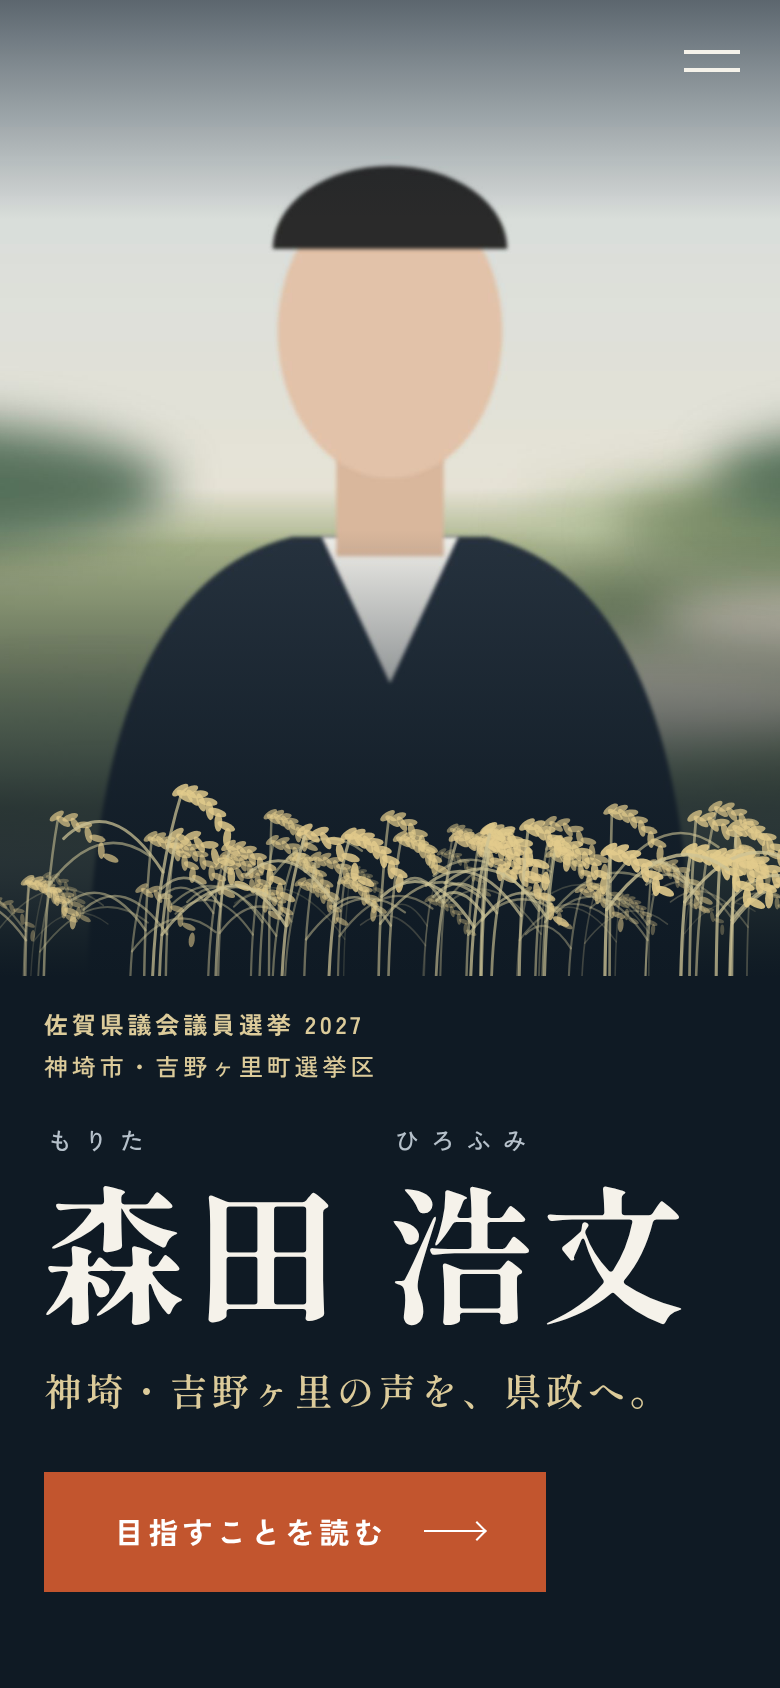
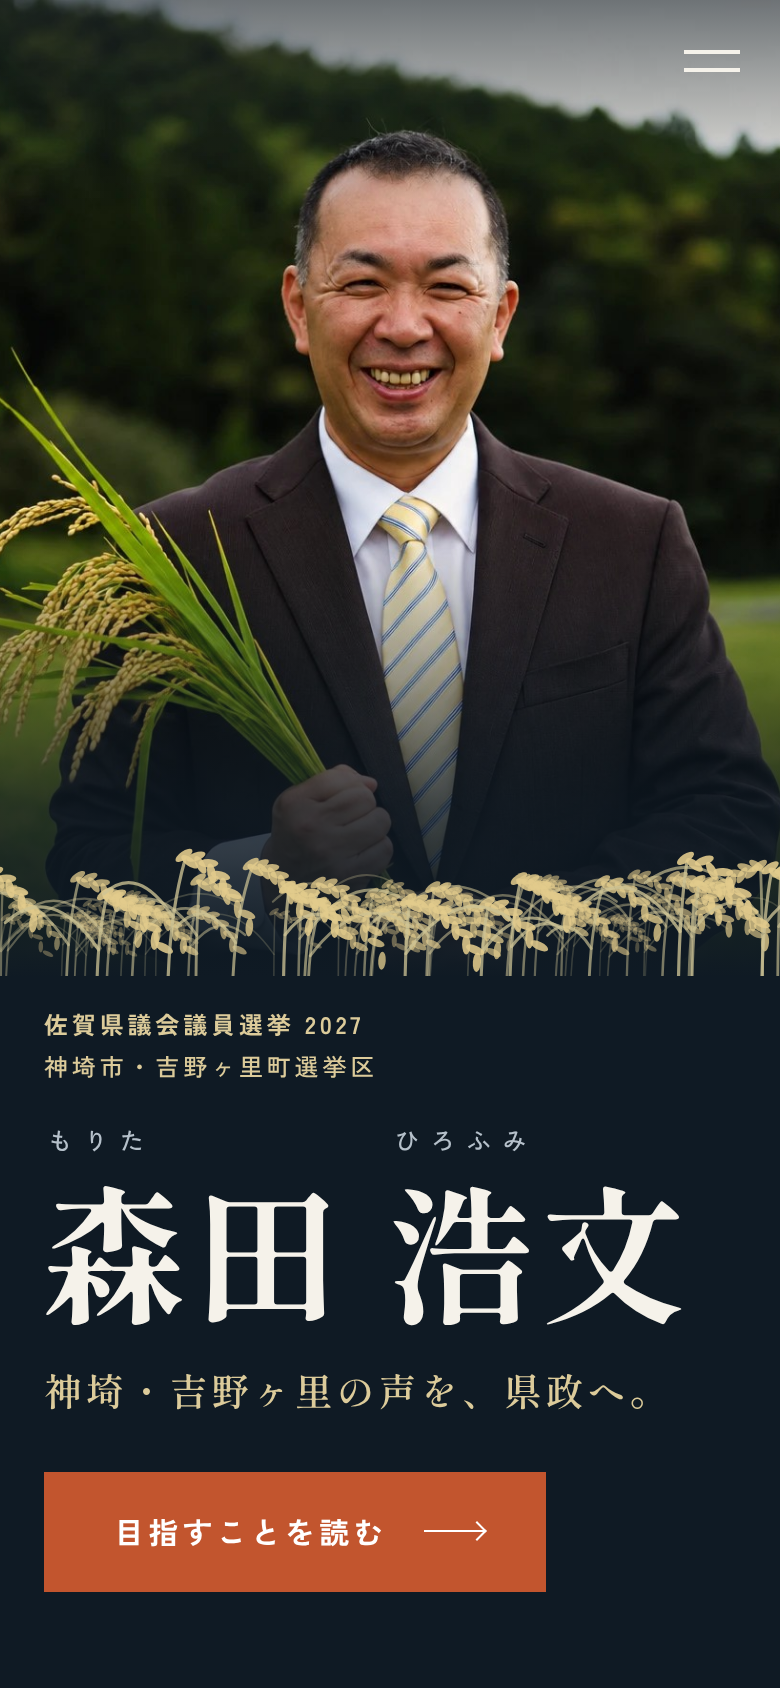
最初の画面に写真を設定（assets/img/hero.jpg）
- data/site.json の photo_url を設定
- 写真があるときは、稲穂のアニメーションを低くして顔や手元に重ならないよう調整
- 写真ありのスクリーンショットを実際の写真で撮り直し

Claude-Session: https://claude.ai/code/session_011pUcFcALCuBGnFo43mF5EL

diff --git a/assets/js/main.js b/assets/js/main.js
@@ -509,7 +509,8 @@
       for (var i = 0; i < count; i++) {
         var x = rnd(-20, W + 20), u = x / W, z = Math.random();
         // 背の高さ：PC は左（文字の下）を低く、右へ行くほど高く。スマホは面の下半分に
-        var prof = wide ? (0.1 + (hasPhoto ? 0.36 : 0.27) * smooth(0.3, 0.95, u)) : (hasPhoto ? 0.2 : 0.27 + 0.08 * Math.sin(u * 5));
+        // 写真があるときは、手元の稲穂や顔に重ならないよう低くする
+        var prof = wide ? (0.1 + (hasPhoto ? 0.1 : 0.27) * smooth(0.3, 0.95, u)) : (hasPhoto ? 0.13 : 0.27 + 0.08 * Math.sin(u * 5));
         stalks.push({
           x: x, z: z, h: H * prof * rnd(0.55, 1) * (0.62 + 0.38 * z), lean: rnd(-0.07, 0.07), ph: rnd(0, 6.28),
           grains: Math.round(rnd(8, 14)), ear: rnd(26, 46) * (0.6 + 0.5 * z) * (wide ? 1.15 : 0.9), side: Math.random() < 0.5 ? -1 : 1,
